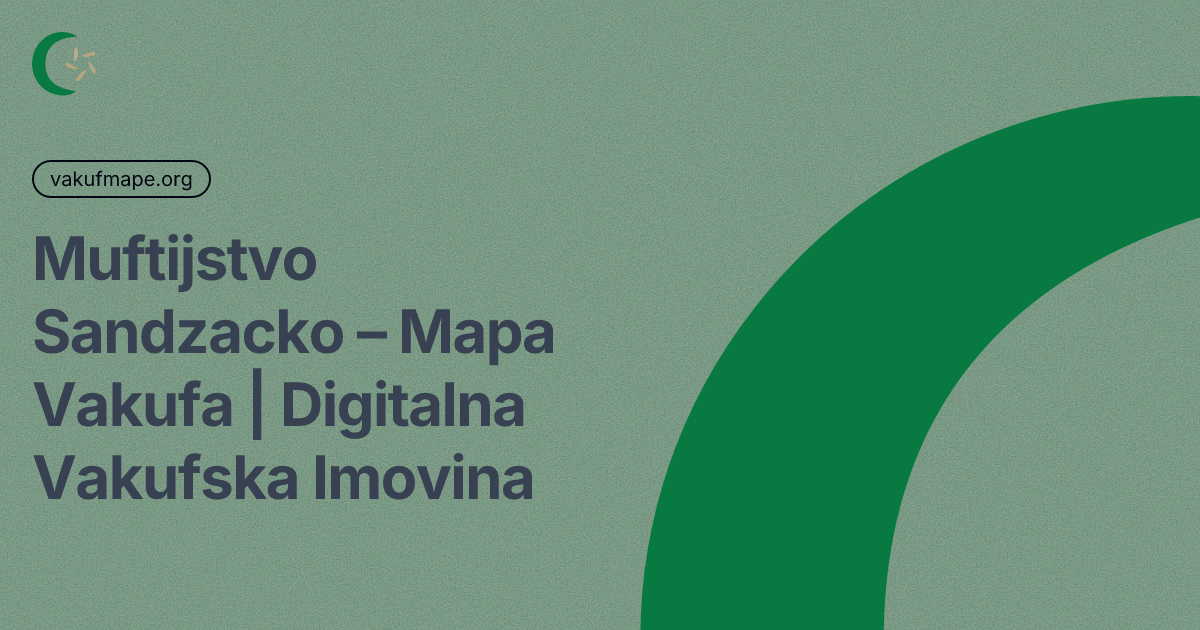
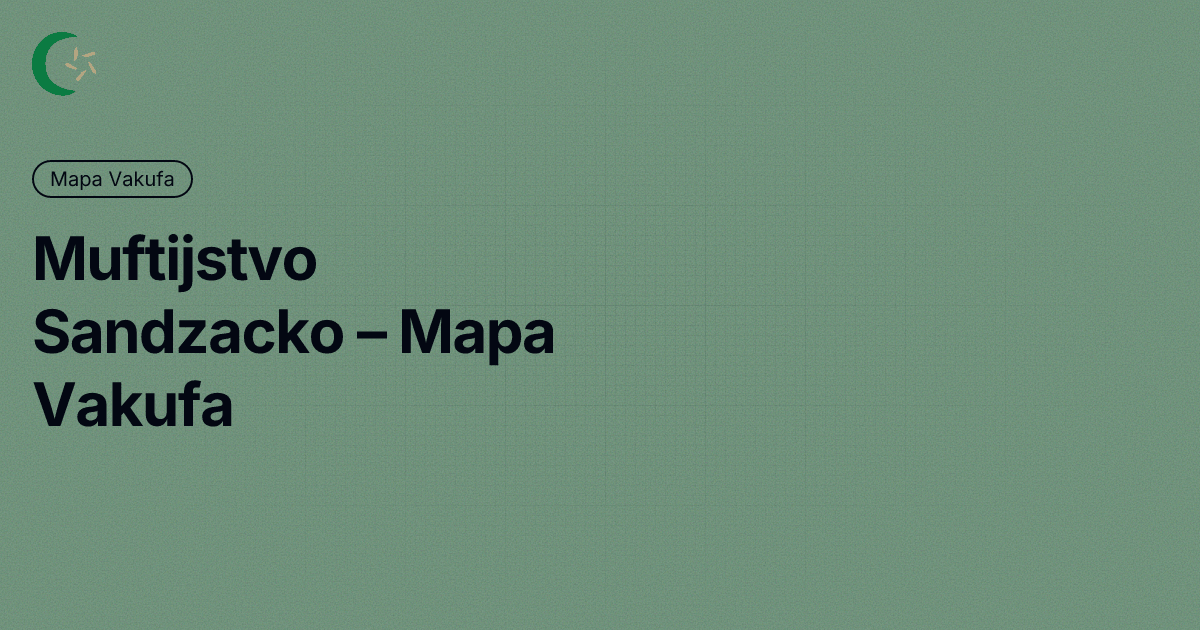
index page updated for latest standrad, new minified photo added

diff --git a/src/index.html b/src/index.html
@@ -2,7 +2,7 @@
 <html lang="sr-RS">
 <head>
   <meta charset="utf-8">
-  <title>Muftijstvo Sandžačko – Mapa Vakufa | Digitalna Vakufska Imovina Sandžaka</title>
+  <title>Muftijstvo Sandžačko – Mapa Vakufa | Digitalna Vakufska Imovina</title>
   <base href="/">
   <meta name="description" content="Interaktivna digitalna mapa vakufske imovine Muftijstva sandžačkog – pregled lokacija, detalja i historijskih podataka vakufa na teritoriji Sandžaka.">
   <meta name="viewport" content="width=device-width, initial-scale=1">
@@ -10,22 +10,23 @@
   <link rel="canonical" href="https://vakufmape.org">
 
   <!-- Open Graph / Facebook, LinkedIn, etc. -->
-  <meta property="og:title" content="Muftijstvo Sandžačko – Mapa Vakufa | Digitalna Vakufska Imovina">
+  <meta property="og:title" content="Muftijstvo Sandžačko Mapa Vakufa Digitalna Vakufska Imovina">
   <meta property="og:description" content="Digitalna interaktivna mapa vakufa Sandžaka – lokacije, detalji i pregled vakufske imovine Muftijstva sandžačkog.">
   <meta property="og:type" content="website">
   <meta property="og:url" content="https://vakufmape.org">
   <meta property="og:site_name" content="Vakuf Mape – Muftijstvo Sandžačko">
-  <meta property="og:image" content="/assets/images/muftijstvo-mape-og.png">
+  <meta property="og:image" content="https://www.vakufmape.org/assets/images/muftijstvo-mape-og.png">
+  <meta property="og:image:type" content="image/png">
   <meta property="og:image:width" content="1200">
   <meta property="og:image:height" content="630">
   <meta property="og:image:alt" content="Digitalna mapa vakufske imovine Sandžaka">
-  <meta property="og:locale" content="sr_RS">
+  <meta property="og:locale" content="bs_Latn_BA">
 
   <!-- Twitter / X Cards -->
   <meta name="twitter:card" content="summary_large_image">
   <meta name="twitter:title" content="Muftijstvo Sandžačko – Mapa Vakufa">
   <meta name="twitter:description" content="Interaktivna mapa vakufske imovine na teritoriji Sandžaka – Muftijstvo sandžačko.">
-  <meta name="twitter:image" content="/assets/images/muftijstvo-mape-og.png">
+  <meta name="twitter:image" content="https://www.vakufmape.org/assets/images/muftijstvo-mape-og.png">
   <!-- <meta name="twitter:site" content="@yourhandle"> → add if you have an X account -->
 
   <!-- Favicons and PWA (unchanged – good setup) -->
@@ -40,7 +41,6 @@
   <meta name="theme-color" content="#ffffff">
 
   <!-- Fonts (unchanged) -->
-  <link rel="preconnect" href="https://fonts.gstatic.com">
   <link rel="preconnect" href="https://fonts.googleapis.com">
   <link rel="preconnect" href="https://fonts.gstatic.com" crossorigin>
   <link href="https://fonts.googleapis.com/css2?family=Open+Sans:wght@300&display=swap" rel="stylesheet">
@@ -69,12 +69,14 @@
     "@type": "Organization",
     "name": "Muftijstvo Sandžačko",
     "url": "https://vakufmape.org",
-    "logo": "/assets/logo.png",
+    "logo": "https://www.vakufmape.org/assets/logo.png",
     "description": "Zvanična digitalna mapa vakufske imovine na području Sandžaka",
     "address": {
       "@type": "PostalAddress",
       "addressLocality": "Novi Pazar",
-      "addressCountry": "RS"
+      "addressCountry": "RS",
+      "postalCode": "36300",
+      "streetAddress": "Gradska 1"
     }
   }
   </script>
